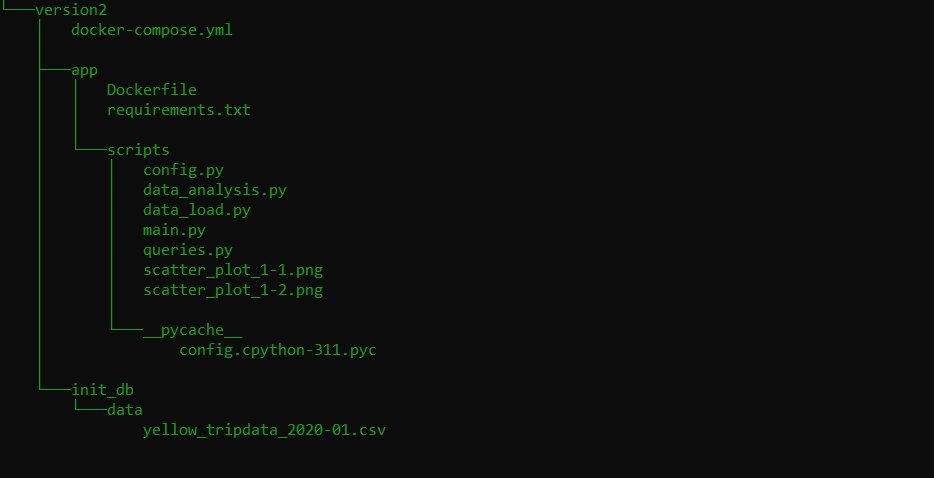
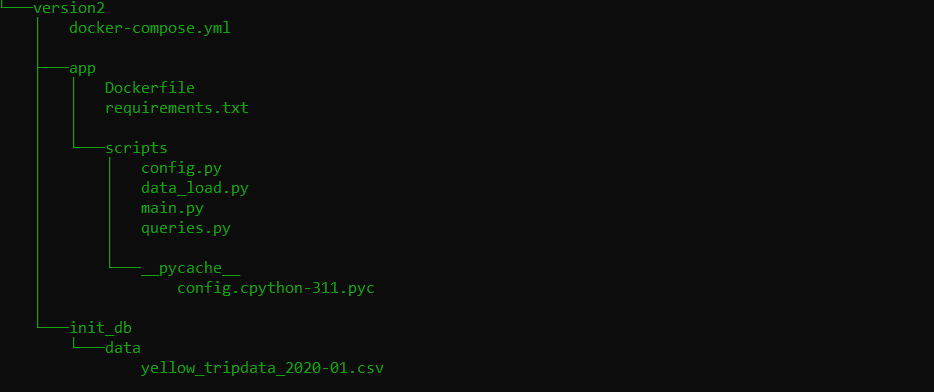
2nd datamart and upd fig str

Changed region(s): [[0.0, 0.0, 0.4036, 0.949], [0.1242, 0.6735, 0.4036, 0.7653]]

diff --git a/version2/app/scripts/queries.py b/version2/app/scripts/queries.py
@@ -76,4 +76,68 @@ with connection.cursor() as cur:
     cur.close()
 
 print('Создание витрины данных завершено')
+print('Начинается создание витрины с данными о максимальной и минимальной стоимостях поездок')
+
+with connection.cursor() as cur:
+    table_query = ("CREATE TABLE IF NOT EXISTS final.cost_trip_datamart( "
+                   "\"date\" TIMESTAMP, "
+                   "max_cost_trip_0p FLOAT, "
+                   "min_cost_trip_0p FLOAT, "
+                   "max_cost_trip_1p FLOAT, "
+                   "min_cost_trip_1p FLOAT, "
+                   "max_cost_trip_2p FLOAT, "
+                   "min_cost_trip_2p FLOAT, "
+                   "max_cost_trip_3p FLOAT, "
+                   "min_cost_trip_3p FLOAT, "
+                   "max_cost_trip_4p_plus FLOAT, "
+                   " min_cost_trip_4p_plus FLOAT);")
+    cur.execute(table_query)
+    query = ("WITH costs_0p_t AS ( "
+             "SELECT date_trunc('day', cd.tpep_dropoff_datetime) AS \"date\", MAX(total_amount) AS max_cost_trip_0p, "
+             "MIN(total_amount) AS min_cost_trip_0p "
+             "FROM final.core_data cd "
+             "WHERE passengers_count = 0 "
+             "GROUP BY date_trunc('day', cd.tpep_dropoff_datetime)), "
+             "costs_1p_t AS ( "
+             "SELECT date_trunc('day', cd.tpep_dropoff_datetime) AS \"date\", MAX(total_amount) AS max_cost_trip_1p, "
+             "MIN(total_amount) AS min_cost_trip_1p "
+             "FROM final.core_data cd "
+             "WHERE passengers_count = 1 "
+             "GROUP BY date_trunc('day', cd.tpep_dropoff_datetime)), "
+             "costs_2p_t AS ( "
+             "SELECT date_trunc('day', cd.tpep_dropoff_datetime) AS \"date\", MAX(total_amount) AS max_cost_trip_2p, "
+             "MIN(total_amount) AS min_cost_trip_2p "
+             "FROM final.core_data cd "
+             "WHERE passengers_count = 2 "
+             "GROUP BY date_trunc('day', cd.tpep_dropoff_datetime)), "
+             "costs_3p_t AS ( "
+             "SELECT date_trunc('day', cd.tpep_dropoff_datetime) AS \"date\", MAX(total_amount) AS max_cost_trip_3p, "
+             "MIN(total_amount) AS min_cost_trip_3p "
+             "FROM final.core_data cd "
+             "WHERE passengers_count = 3 "
+             "GROUP BY date_trunc('day', cd.tpep_dropoff_datetime)), "
+             "costs_4p_t AS ( "
+             "SELECT date_trunc('day', cd.tpep_dropoff_datetime) AS \"date\", MAX(total_amount) AS "
+             "max_cost_trip_4p_plus, MIN(total_amount) AS min_cost_trip_4p_plus "
+             "FROM final.core_data cd "
+             "WHERE passengers_count > 3 "
+             "GROUP BY date_trunc('day', cd.tpep_dropoff_datetime)) "
+             "INSERT INTO final.cost_trip_datamart (\"date\", max_cost_trip_0p, min_cost_trip_0p, "
+             "max_cost_trip_1p, min_cost_trip_1p, "
+             "max_cost_trip_2p, min_cost_trip_2p, max_cost_trip_3p, min_cost_trip_3p, "
+             "max_cost_trip_4p_plus, min_cost_trip_4p_plus) "
+             "SELECT all_d.\"date\", max_cost_trip_0p, min_cost_trip_0p, max_cost_trip_1p, min_cost_trip_1p, "
+             "max_cost_trip_2p, min_cost_trip_2p, max_cost_trip_3p, min_cost_trip_3p, "
+             "max_cost_trip_4p_plus, min_cost_trip_4p_plus "
+             "FROM (SELECT date_trunc('day', cd.tpep_dropoff_datetime) AS \"date\" "
+             "FROM final.core_data cd "
+             "GROUP BY date_trunc('day', cd.tpep_dropoff_datetime)) AS all_d "
+             "LEFT JOIN costs_0p_t c0 ON all_d.\"date\" = c0.\"date\" "
+             "LEFT JOIN costs_1p_t c1 ON all_d.\"date\" = c1.\"date\" "
+             "LEFT JOIN costs_2p_t c2 ON all_d.\"date\" = c2.\"date\" "
+             "LEFT JOIN costs_3p_t c3 ON all_d.\"date\" = c3.\"date\" "
+             "LEFT JOIN costs_4p_t c4 ON all_d.\"date\" = c4.\"date\";")
+    cur.execute(query)
+    connection.commit()
+    cur.close()
 
